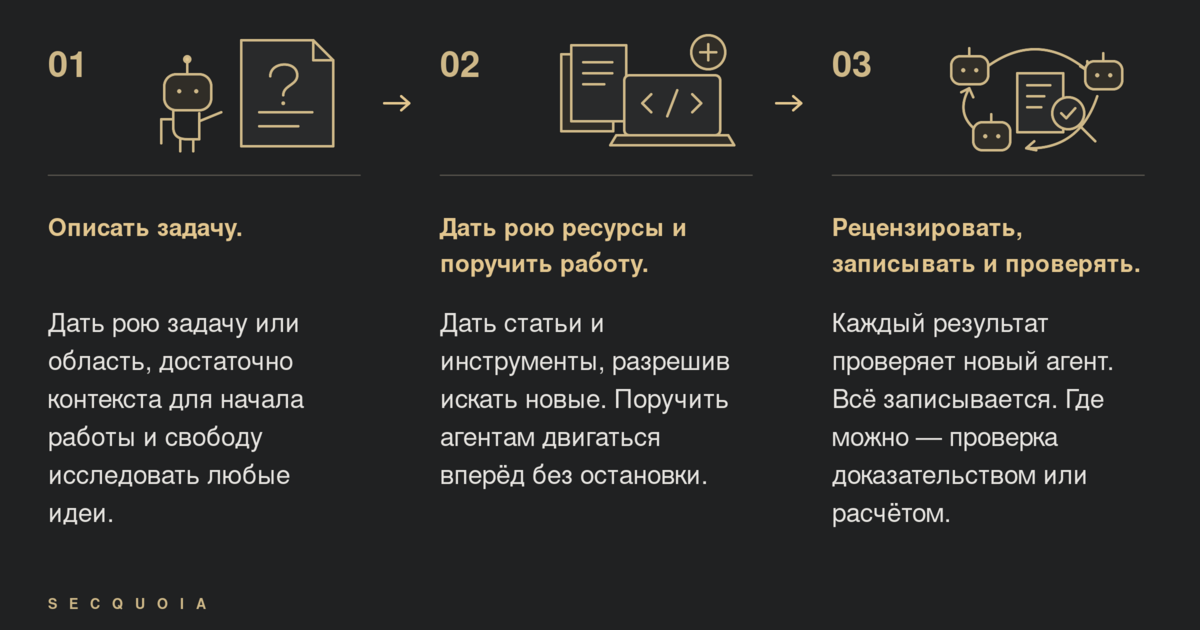
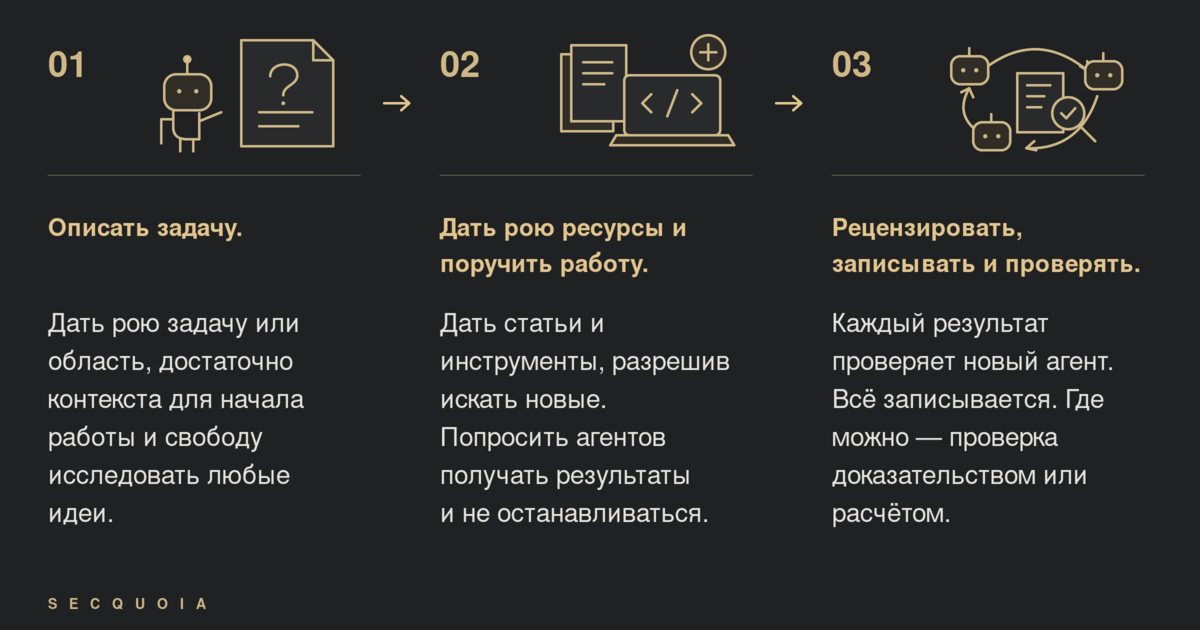
Reword the second Russian research step
Replace "Поручить агентам двигаться вперёд без остановки" with
"Попросить агентов получать результаты и не останавливаться", matching
the English ("Ask the agents to make progress and not stop") and the
wording of the Russian introduction. Update the methodology SVG to the
same sentence and regenerate its PNG and WebP exports.

Changed region(s): [[0.37, 0.6032, 0.6167, 0.8444]]

diff --git a/articles/ai-agents-research/ru.md b/articles/ai-agents-research/ru.md
@@ -79,7 +79,7 @@ show_tile: false
       <span class="step-number" aria-hidden="true">02</span>
       <h3>Дать рою ресурсы и поручить работу.</h3>
       <p>Дать статьи и инструменты, разрешив искать новые.
-      Поручить агентам двигаться вперёд без остановки.</p>
+      Попросить агентов получать результаты и не останавливаться.</p>
     </li>
     <li>
       <span class="step-number" aria-hidden="true">03</span>
